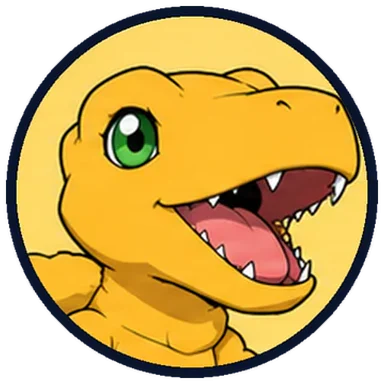
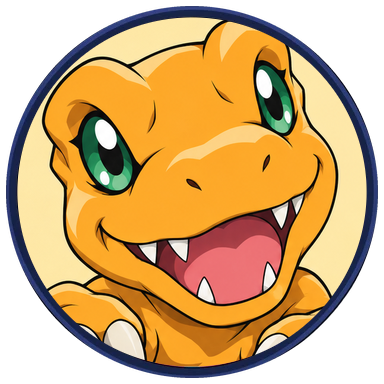
Renueva los iconos clásicos de los Digimon

diff --git a/index.html b/index.html
@@ -6481,7 +6481,7 @@ function showCollection(){
       let own = 0, all = 0;
       for (const sk of lineSkins(k)){ all++; if (ownsAt(k, 0, sk.id)) own++; }
       return `<button class="cl4-item${k === colKey ? ' sel' : ''}${open ? '' : ' lock'}" data-k="${k}" ${open ? '' : 'disabled'}>
-        <span class="ps-ic cl4-ic"><img src="${open ? charIcon(k) : 'ui/jugador/' + k + '.webp'}" alt=""></span>
+        <span class="ps-ic cl4-ic"><img src="${open ? charIcon(k) : playerIconSrc(k)}" alt=""></span>
         <span><b>${open ? CHARS[k].name : '???'}</b><small>${open ? own + ' skins · Maestría ' + masteryLv(k) : unlockHowProg(k)}</small></span></button>`;
     }).join('');
     const k = colKey, open = isUnlocked(k);
@@ -7846,7 +7846,7 @@ function renderRoster(){
     const open = isUnlocked(id), fav = open && favs.includes(id);
     return `<button type="button" class="ps-tile${id === k ? ' sel' : ''}${open ? '' : ' lock'}${fav ? ' fav' : ''}" ${open ? `data-pick="${id}"` : 'disabled'} data-name="${open ? CHARS[id].name.toLowerCase() : '???'}" title="${open ? CHARS[id].name : unlockHowProg(id)}">
       <span class="ps-key">${i + 1}</span>${open ? `<span class="ps-fav${fav ? ' on' : ''}" data-fav="${id}" role="button" aria-pressed="${fav}" title="${fav ? 'Quitar de favoritos' : 'Marcar como favorito'}">${fav ? '★' : '☆'}</span>` : ''}${open && pickIsEvolved(id) ? '<span class="ps-evo-dot" title="Ya ha evolucionado"></span>' : ''}
-      <span class="ps-ic"><img src="${open ? charIcon(id) : 'ui/jugador/' + id + '.webp'}" alt="" loading="lazy"></span><b>${open ? CHARS[id].name : '???'}</b>
+      <span class="ps-ic"><img src="${open ? charIcon(id) : playerIconSrc(id)}" alt="" loading="lazy"></span><b>${open ? CHARS[id].name : '???'}</b>
     </button>`;
   }).join('');
   const soon = COMING_SOON.map(c => `<span class="ps-tile soon" data-name="${c.name.toLowerCase()}" title="${c.name} · Próximamente"><span class="ps-lock">🔒</span><span class="ps-ic"><img src="${AD(c.id)}" alt="" loading="lazy"></span><b>${c.name}</b></span>`).join('');
@@ -10593,7 +10593,7 @@ const OWN_ITEMS = {
   frigimon:  ['Copo de Frigimon', 'Recibes un 6% menos de daño por nivel.', () => { g.p.armor = (g.p.armor || 1) * 0.94; }],
   wizardmon: ['Báculo de Wizardmon', '+6% daño y +6% área por nivel.', () => { g.p.dmg *= 1.06; g.p.area *= 1.06; }]
 };
-for (const [k, [name, d, on]] of Object.entries(OWN_ITEMS)) ITEMS['own_' + k] = {name, d, on, owner: k, img: 'ui/jugador/' + k + '.webp'};
+for (const [k, [name, d, on]] of Object.entries(OWN_ITEMS)) ITEMS['own_' + k] = {name, d, on, owner: k, img: playerIconSrc(k)};
 // Cómo se desbloquea cada objeto. Los de base salen desde el principio; el resto por hitos, maestría o el encargo semanal
 const ITEM_BASE = ['gafas', 'silbato', 'carne', 'moneda'];
 const ITEM_HITOS = {
@@ -14267,9 +14267,10 @@ function skinHasArt(key, st, id){ return id === 'clasico' || ANIM_IDS.has(`${key
 // Skins de una línea entera: las que tienen hoja en alguna etapa
 function skinLineArt(key, id){ for (let st = 0; st < stageCount(key); st++) if (skinHasArt(key, st, id)) return st; return -1; }
 function lineSkins(key){ return SKINS.filter(sk => skinLineArt(key, sk.id) >= 0 && (!sk.hidden || ownsAt(key, 0, sk.id))); }
+function playerIconSrc(key){ return 'ui/jugador/' + key + '.webp?arte=clasicos'; }
 // Icono redondo de un Digimon con su skin (si la skin no tiene icono, el del Digimon)
-function charIcon(key, skin = equippedAt(key, 0)){ const ic = skinIconFor(key, skin); return ic ? ic.src : 'ui/jugador/' + key + '.webp'; }
-function skinThumb(key, sk){ const ic = skinIconFor(key, sk.id); if (ic || sk.id === 'clasico') return `<span class="ps-ic"><img src="${ic ? ic.src : 'ui/jugador/' + key + '.webp'}" alt=""></span>`; const st = Math.max(0, skinLineArt(key, sk.id)); return `<span class="ps-ic ps-ic-spr">${animEl(spriteWith(key, st, sk.id), 'ps-face')}</span>`; }
+function charIcon(key, skin = equippedAt(key, 0)){ const ic = skinIconFor(key, skin); return ic ? ic.src : playerIconSrc(key); }
+function skinThumb(key, sk){ const ic = skinIconFor(key, sk.id); if (ic || sk.id === 'clasico') return `<span class="ps-ic"><img src="${ic ? ic.src : playerIconSrc(key)}" alt=""></span>`; const st = Math.max(0, skinLineArt(key, sk.id)); return `<span class="ps-ic ps-ic-spr">${animEl(spriteWith(key, st, sk.id), 'ps-face')}</span>`; }
 // Se llama al terminar cada partida: actualiza el progreso y devuelve las skins nuevas
 function statsOf(key){ return loadJSON('digibonk3d-stats', {})[key] || {plays:0, kills:0}; }
 function meetsReq(sk, st){
@@ -14523,7 +14524,7 @@ const PLAYER_ICONS = [
   {id:'agumon', name:'Agumon'}, {id:'gabumon', name:'Gabumon'}, {id:'biyomon', name:'Biyomon'}, {id:'tentomon', name:'Tentomon'},
   {id:'palmon', name:'Palmon'}, {id:'gomamon', name:'Gomamon'}, {id:'patamon', name:'Patamon'}, {id:'gatomon', name:'Gatomon'},
   {id:'leomon', name:'Leomon'}, {id:'hagurumon', name:'Hagurumon'}, {id:'frigimon', name:'Frigimon'}, {id:'wizardmon', name:'Wizardmon'}
-].map(x => ({...x, src: 'ui/jugador/' + x.id + '.webp'}));
+].map(x => ({...x, src: playerIconSrc(x.id)}));
 // Iconos de skin: se desbloquean al tener la skin en alguna etapa (los de skins ocultas solo se ven al tenerlas)
 const SKIN_ICONS = [
   {key:'agumon', skin:'galactico'}, {key:'agumon', skin:'holografica'}, {key:'agumon', skin:'lcd'}, {key:'agumon', skin:'festival'}, {key:'agumon', skin:'reno'}, {key:'agumon', skin:'variocolor'},
